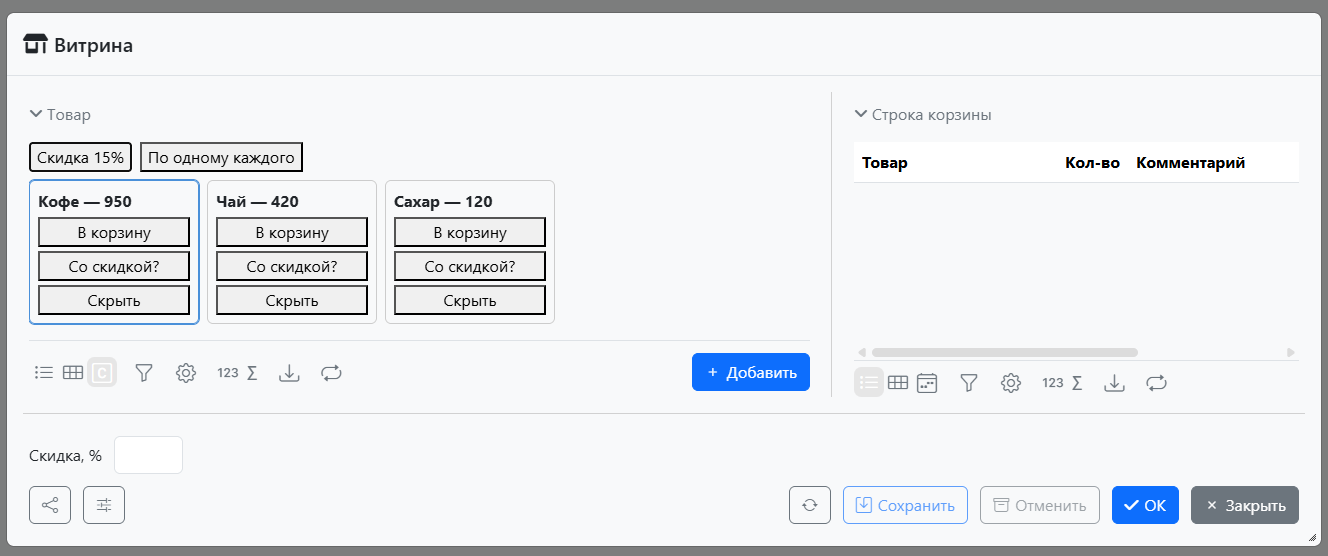
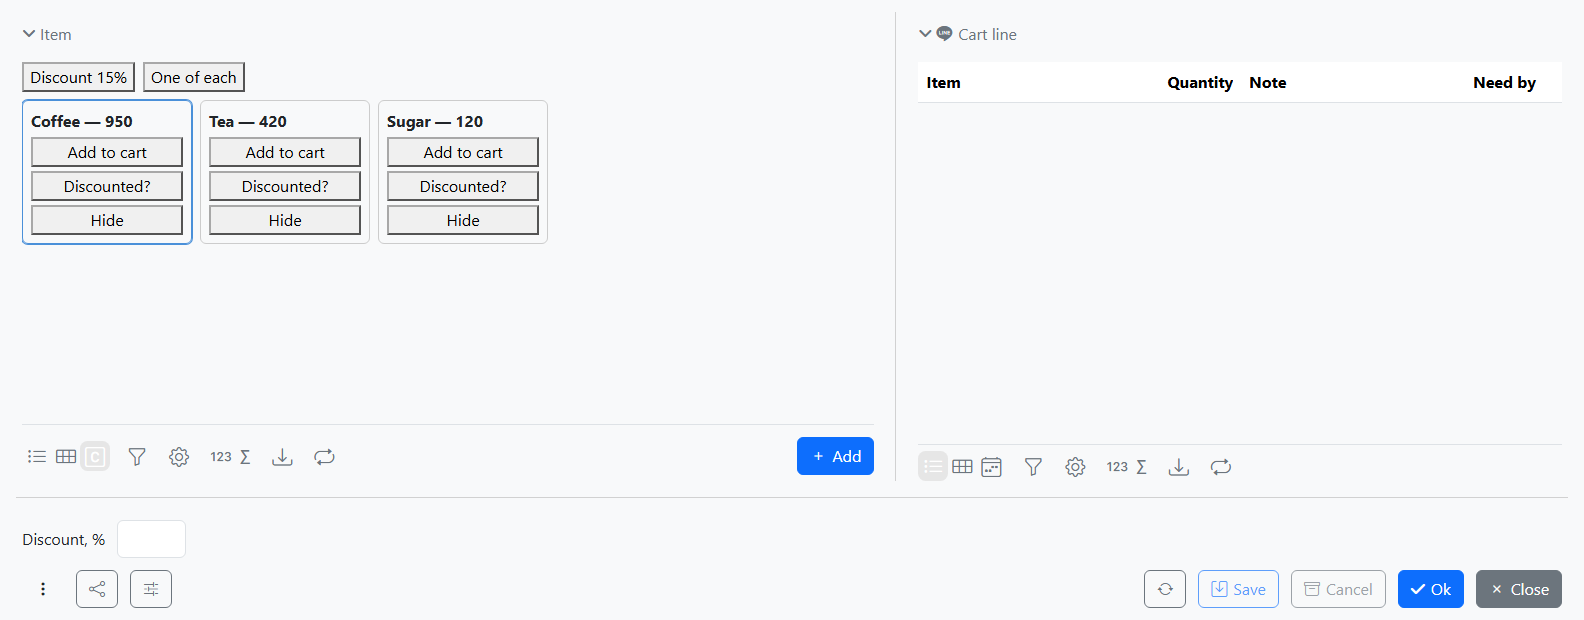
docs: fix the How-to_Custom_components examples and retake their screenshots (ru/en)
Objects: the web client passes a property whose integration name is 'image' to a CUSTOM view as <img> markup rather than as a URL (that name is reserved for the image of map and calendar views), so the page's cardImage.src = item.image showed a broken picture; the property is renamed to 'picture'.

Server calls: the cart table no longer needs a horizontal scrollbar — the note column gets CHARWIDTH 20 and the two panes share the width equally.

diff --git a/docs/how-to/en/How-to_Custom_components_objects.md b/docs/how-to/en/How-to_Custom_components_objects.md
@@ -17,18 +17,18 @@ CLASS Item 'Item';
 
 name 'Name' = DATA STRING (Item) NONULL;
 price 'Price' = DATA NUMERIC[12,2] (Item) NONULL;
-image '' = DATA IMAGEFILE (Item);
+picture '' = DATA IMAGEFILE (Item);
 
 FORM item 'Item'
     OBJECTS i = Item PANEL
-    PROPERTIES(i) name, price, image
+    PROPERTIES(i) name, price, picture
     
     EDIT Item OBJECT i
 ;
 
 DESIGN item {
     OBJECTS {
-        MOVE PROPERTY(image(i)) {
+        MOVE PROPERTY(picture(i)) {
             fill = 1;
         }
     }
@@ -42,7 +42,7 @@ Let's create a form with a list of items. To do this let's add to the form an ob
 ```lsf
 FORM items 'Items'
     OBJECTS i = Item CUSTOM 'itemCards'
-    PROPERTIES(i) READONLY image, price, name
+    PROPERTIES(i) READONLY picture, price, name
     PROPERTIES(i) NEWSESSION new = NEW, edit = EDIT GRID, DELETE GRID
 ;
 
@@ -83,7 +83,7 @@ update: (element, controller, list) => {
 
         let cardImage = document.createElement("img")
         cardImage.classList.add("item-card-image");
-        cardImage.src = item.image;
+        cardImage.src = item.picture;
         card.appendChild(cardImage);
 
         let cardPrice = document.createElement("div")

diff --git a/docs/how-to/ru/How-to_Custom_components_objects.md b/docs/how-to/ru/How-to_Custom_components_objects.md
@@ -17,18 +17,18 @@ CLASS Item 'Item';
 
 name 'Name' = DATA STRING (Item) NONULL;
 price 'Price' = DATA NUMERIC[12,2] (Item) NONULL;
-image '' = DATA IMAGEFILE (Item);
+picture '' = DATA IMAGEFILE (Item);
 
 FORM item 'Item'
     OBJECTS i = Item PANEL
-    PROPERTIES(i) name, price, image
+    PROPERTIES(i) name, price, picture
     
     EDIT Item OBJECT i
 ;
 
 DESIGN item {
     OBJECTS {
-        MOVE PROPERTY(image(i)) {
+        MOVE PROPERTY(picture(i)) {
             fill = 1;
         }
     }
@@ -42,7 +42,7 @@ DESIGN item {
 ```lsf
 FORM items 'Items'
     OBJECTS i = Item CUSTOM 'itemCards'
-    PROPERTIES(i) READONLY image, price, name
+    PROPERTIES(i) READONLY picture, price, name
     PROPERTIES(i) NEWSESSION new = NEW, edit = EDIT GRID, DELETE GRID
 ;
 
@@ -83,7 +83,7 @@ update: (element, controller, list) => {
 
         let cardImage = document.createElement("img")
         cardImage.classList.add("item-card-image");
-        cardImage.src = item.image;
+        cardImage.src = item.picture;
         card.appendChild(cardImage);
 
         let cardPrice = document.createElement("div")

diff --git a/docs/how-to/ru/How-to_Custom_components_server_calls.md b/docs/how-to/ru/How-to_Custom_components_server_calls.md
@@ -33,7 +33,7 @@ discount 'Скидка, %' = DATA NUMERIC[5,2] ();
 item 'Товар' = DATA Item (CartLine) NONULL DELETE;
 nameItem 'Товар' (CartLine l) = name(item(l));
 quantity 'Кол-во' = DATA INTEGER (CartLine);
-note 'Комментарий' = DATA STRING[100] (CartLine);
+note 'Комментарий' = DATA STRING[100] (CartLine) CHARWIDTH 20;
 needBy 'Нужно к' = DATA DATE (CartLine);
 
 // exec: объект (приходит числовым id) + примитивы INTEGER, STRING, DATE
@@ -81,7 +81,7 @@ DESIGN shop {
     NEW pane FIRST {
         fill = 1;
         horizontal = TRUE;
-        MOVE BOX(i) { fill = 2; }
+        MOVE BOX(i) { fill = 1; }
         MOVE BOX(l) { fill = 1; }
     }
 }

diff --git a/docs/how-to/en/How-to_Custom_components_server_calls.md b/docs/how-to/en/How-to_Custom_components_server_calls.md
@@ -33,7 +33,7 @@ discount 'Discount, %' = DATA NUMERIC[5,2] ();
 item 'Item' = DATA Item (CartLine) NONULL DELETE;
 nameItem 'Item' (CartLine l) = name(item(l));
 quantity 'Quantity' = DATA INTEGER (CartLine);
-note 'Note' = DATA STRING[100] (CartLine);
+note 'Note' = DATA STRING[100] (CartLine) CHARWIDTH 20;
 needBy 'Need by' = DATA DATE (CartLine);
 
 // exec: an object (arrives as a numeric id) + INTEGER, STRING, DATE primitives
@@ -81,7 +81,7 @@ DESIGN shop {
     NEW pane FIRST {
         fill = 1;
         horizontal = TRUE;
-        MOVE BOX(i) { fill = 2; }
+        MOVE BOX(i) { fill = 1; }
         MOVE BOX(l) { fill = 1; }
     }
 }
